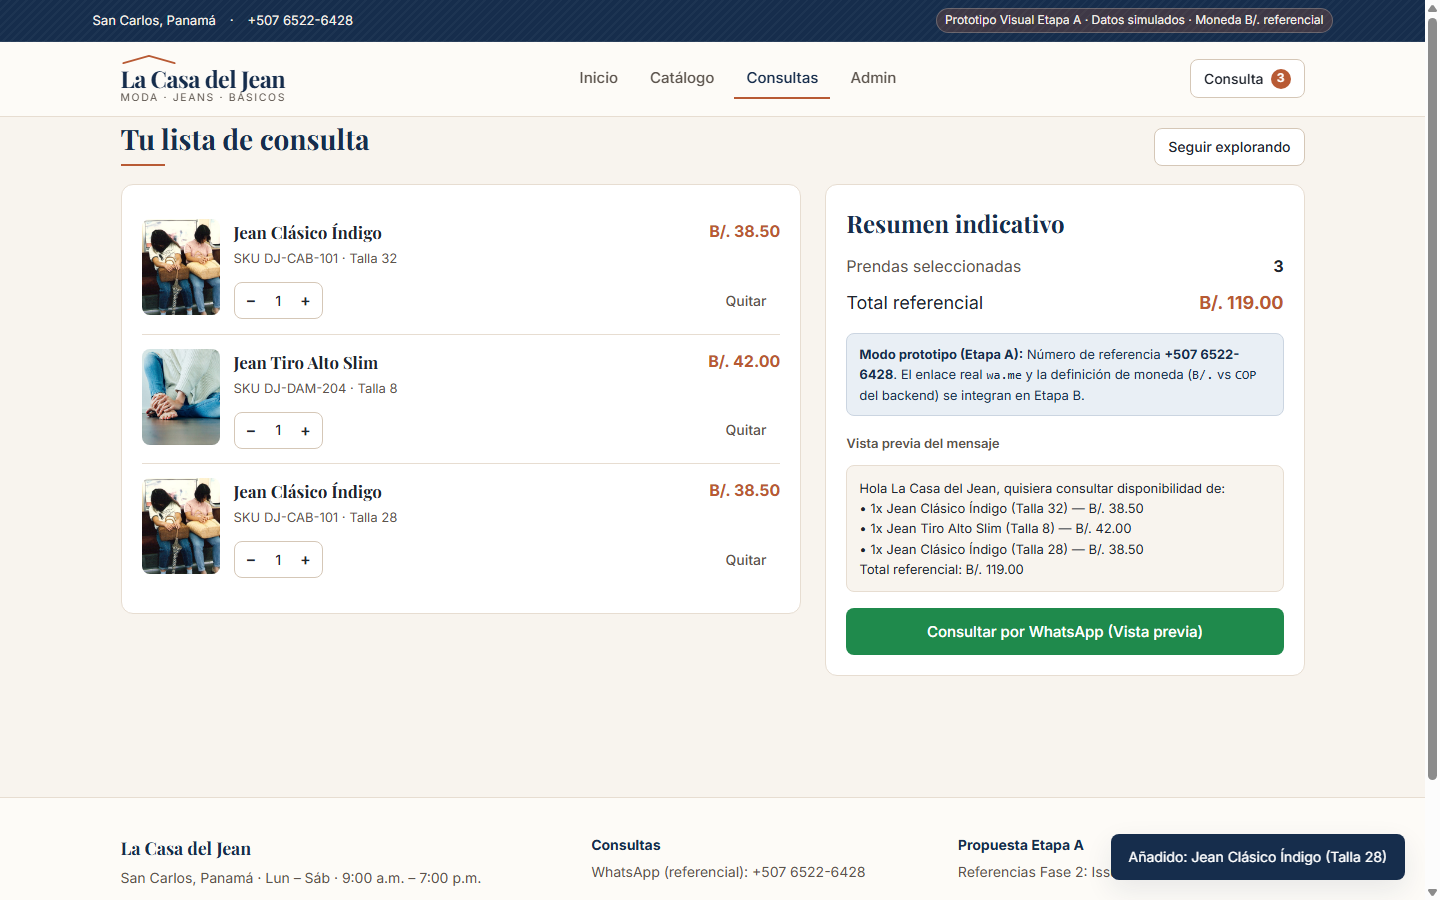
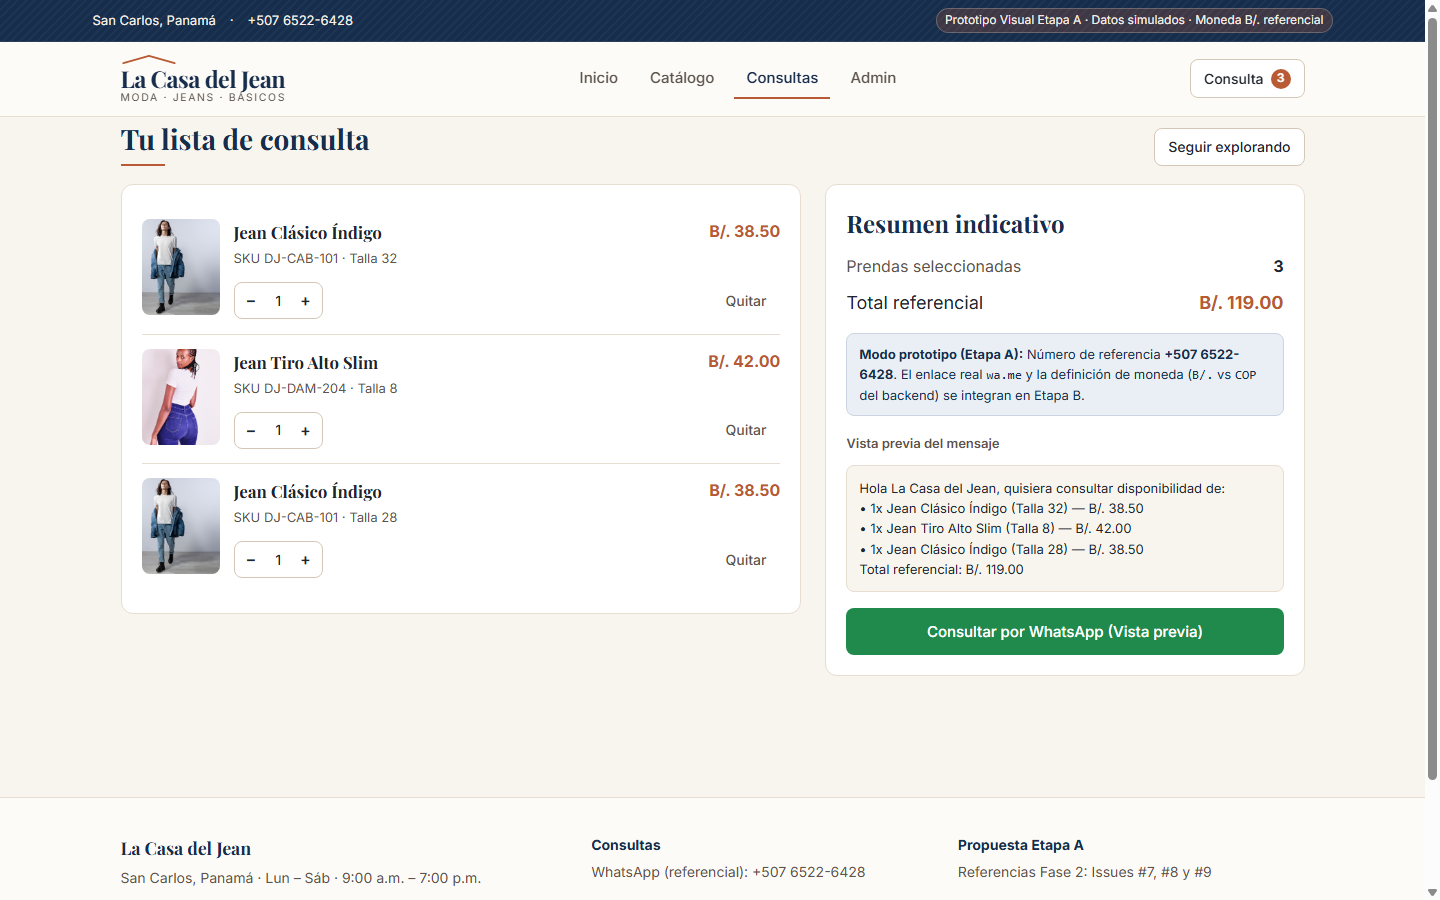
docs(fase2): usar fotos editoriales Pexels en fichas principales y capturas limpias sin toast (#7, #8, #9)

Changed region(s): [[0.75, 0.9022, 1.0, 0.9956], [0.0938, 0.2178, 0.1562, 0.4978], [0.0938, 0.5289, 0.1562, 0.6533]]

diff --git a/docs/prototipo-fase2/data.js b/docs/prototipo-fase2/data.js
@@ -38,17 +38,17 @@ window.LCDJ_DATA = {
     {
       id: "jeans",
       label: "Jeans",
-      image: "https://thumb.wikimedia.org/wikipedia/commons/thumb/4/48/%E3%83%86%E3%83%BC%E3%83%91%E3%83%BC%E3%83%89%E3%82%B8%E3%83%BC%E3%83%B3%E3%82%BA_%283953687892%29.jpg/960px-%E3%83%86%E3%83%BC%E3%83%91%E3%83%BC%E3%83%89%E3%82%B8%E3%83%BC%E3%83%B3%E3%82%BA_%283953687892%29.jpg?utm_source=commons.wikimedia.org&utm_campaign=imageinfo&utm_content=thumbnail"
+      image: "https://images.pexels.com/photos/6764017/pexels-photo-6764017.jpeg?auto=compress&cs=tinysrgb&w=900"
     },
     {
       id: "damas",
       label: "Damas",
-      image: "https://thumb.wikimedia.org/wikipedia/commons/thumb/2/27/Denim_jacket_details.jpg/960px-Denim_jacket_details.jpg?utm_source=commons.wikimedia.org&utm_campaign=imageinfo&utm_content=thumbnail"
+      image: "https://images.pexels.com/photos/9713293/pexels-photo-9713293.jpeg?auto=compress&cs=tinysrgb&w=900"
     },
     {
       id: "caballeros",
       label: "Caballeros",
-      image: "https://upload.wikimedia.org/wikipedia/commons/e/ec/Man_wearing_blue_denim_shirt_with_rolled_sleeves%2C_tan_chinos_1.jpg?utm_source=commons.wikimedia.org&utm_campaign=imageinfo&utm_content=thumbnail_unscaled"
+      image: "https://images.pexels.com/photos/6764017/pexels-photo-6764017.jpeg?auto=compress&cs=tinysrgb&w=900"
     },
     {
       id: "ninos",
@@ -86,11 +86,11 @@ window.LCDJ_DATA = {
       color: "Índigo",
       colorId: "indigo",
       swatches: ["#1B365D", "#4D739B", "#1F2937"],
-      image: "https://thumb.wikimedia.org/wikipedia/commons/thumb/4/48/%E3%83%86%E3%83%BC%E3%83%91%E3%83%BC%E3%83%89%E3%82%B8%E3%83%BC%E3%83%B3%E3%82%BA_%283953687892%29.jpg/960px-%E3%83%86%E3%83%BC%E3%83%91%E3%83%BC%E3%83%89%E3%82%B8%E3%83%BC%E3%83%B3%E3%82%BA_%283953687892%29.jpg?utm_source=commons.wikimedia.org&utm_campaign=imageinfo&utm_content=thumbnail",
+      image: "https://images.pexels.com/photos/6764017/pexels-photo-6764017.jpeg?auto=compress&cs=tinysrgb&w=900",
       attribution: {
-        author: "Leo-setä",
-        license: "CC BY 2.0",
-        source: "https://commons.wikimedia.org/wiki/File:%E3%83%86%E3%83%BC%E3%83%91%E3%83%BC%E3%83%89%E3%82%B8%E3%83%BC%E3%83%B3%E3%82%BA_(3953687892).jpg"
+        author: "Pexels (foto #6764017)",
+        license: "Pexels License",
+        source: "https://www.pexels.com/photo/man-in-jean-jacket-and-pants-on-white-backg-6764017/"
       },
       sizes: [
         { size: "28", stock: 6 },
@@ -116,11 +116,11 @@ window.LCDJ_DATA = {
       color: "Azul Medio",
       colorId: "azul-medio",
       swatches: ["#4D739B", "#1B365D"],
-      image: "https://thumb.wikimedia.org/wikipedia/commons/thumb/a/a9/Imani-bahati-woman-wearing-distressed-blue-denim-jeans-sitting-on-floor.jpg/960px-Imani-bahati-woman-wearing-distressed-blue-denim-jeans-sitting-on-floor.jpg?utm_source=commons.wikimedia.org&utm_campaign=imageinfo&utm_content=thumbnail",
+      image: "https://images.pexels.com/photos/37076315/pexels-photo-37076315.jpeg?auto=compress&cs=tinysrgb&w=900",
       attribution: {
-        author: "Imani Bahati",
-        license: "CC0",
-        source: "https://commons.wikimedia.org/wiki/File:Imani-bahati-woman-wearing-distressed-blue-denim-jeans-sitting-on-floor.jpg"
+        author: "Pexels (foto #37076315)",
+        license: "Pexels License",
+        source: "https://www.pexels.com/photo/stylish-model-posing-in-casual-denim-and-white-tee-37076315/"
       },
       sizes: [
         { size: "6", stock: 5 },

diff --git a/docs/prototipo-fase2/app.js b/docs/prototipo-fase2/app.js
@@ -249,7 +249,7 @@
           </div>
         </div>
         <p style="font-size:0.75rem;color:var(--ink-muted);margin:8px 0 0;">
-          Foto ilustrativa: ${product.attribution.author} (${product.attribution.license}) · Wikimedia Commons
+          Foto ilustrativa: ${product.attribution.author} (${product.attribution.license})
         </p>
       </div>
       <div>

diff --git a/docs/prototipo-fase2/README.md b/docs/prototipo-fase2/README.md
@@ -37,15 +37,16 @@ Abrir en el navegador: `http://localhost:4173` (o abrir directamente `docs/proto
 
 ## 3. Atribución de Fotografías (Marcadores de Posición Ilustrativos)
 
-> **Aviso importante:** No se utilizaron las capturas de referencia como imágenes del sitio ni imágenes generadas por IA. Todas las fotografías son reales con licencia abierta verificable en Wikimedia Commons y funcionan como marcadores de posición ilustrativos.
+> **Aviso importante:** No se utilizaron las capturas de referencia como imágenes del sitio ni imágenes generadas por IA. Todas las fotografías son reales con licencia abierta verificable (Pexels License `https://www.pexels.com/license/` y Wikimedia Commons) y funcionan como marcadores de posición ilustrativos sin implicar aval de la tienda.
 
-| Uso en prototipo | Autor | Licencia | Fuente verificable |
+| Uso en prototipo | Origen / Autor | Licencia | Fuente verificable |
 | --- | --- | --- | --- |
 | Hero campaña denim a color | Jcjeansandclothes | CC BY-SA 3.0 | https://commons.wikimedia.org/wiki/File:Jeans_Jeans_Jeans.jpg |
-| Colección Denim (panel lateral) | El Nuevo Doge | CC0 | https://commons.wikimedia.org/wiki/File:Jeans_mexicanos.jpg |
-| Jean Clásico Índigo / Cat. Jeans | Leo-setä | CC BY 2.0 | https://commons.wikimedia.org/wiki/File:%E3%83%86%E3%83%BC%E3%83%91%E3%83%BC%E3%83%89%E3%82%B8%E3%83%BC%E3%83%B3%E3%82%BA_(3953687892).jpg |
-| Jean Tiro Alto Slim | Imani Bahati | CC0 | https://commons.wikimedia.org/wiki/File:Imani-bahati-woman-wearing-distressed-blue-denim-jeans-sitting-on-floor.jpg |
+| Jean Clásico Índigo / Cat. Jeans | Pexels (#6764017) | Pexels License | https://www.pexels.com/photo/man-in-jean-jacket-and-pants-on-white-backg-6764017/ |
+| Jean Tiro Alto Slim | Pexels (#37076315) | Pexels License | https://www.pexels.com/photo/stylish-model-posing-in-casual-denim-and-white-tee-37076315/ |
 | Chaqueta Denim Tradicional | NikosLikomitros | CC0 | https://commons.wikimedia.org/wiki/File:Jean_jacket.jpg |
+| Categoría Damas | Pexels (#9713293) | Pexels License | https://www.pexels.com/photo/a-woman-wearing-crop-top-and-denim-jeans-9713293/ |
+| Colección Denim (panel lateral) | El Nuevo Doge | CC0 | https://commons.wikimedia.org/wiki/File:Jeans_mexicanos.jpg |
 | Camisa Denim / Cat. Caballeros | May Lee | CC BY-SA 2.0 | https://commons.wikimedia.org/wiki/File:Man_wearing_blue_denim_shirt_with_rolled_sleeves,_tan_chinos_1.jpg |
 | Pantalón Chino Algodón Arena | Kuha455405 | CC BY-SA 3.0 | https://commons.wikimedia.org/wiki/File:Chino_pants.jpg |
 | Conjunto Familiar / Cat. Niños | DimiTalen | CC0 | https://commons.wikimedia.org/wiki/File:Man_in_marini%C3%A8re_with_child.jpg |
